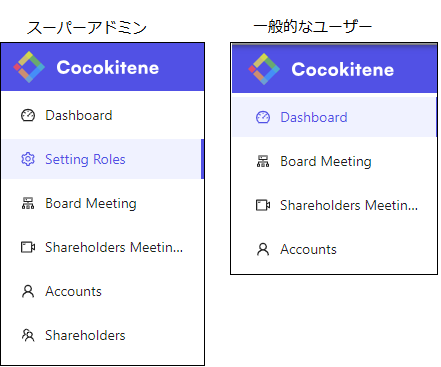
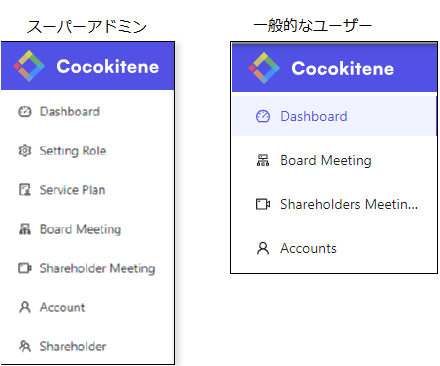
Update 10/22

diff --git a/docs/ja/service.md b/docs/ja/service.md
@@ -2,8 +2,6 @@
 Cocokiteneにおける、サービスの概要についてご説明します。  
 これはCocokiteneにおいて、ビジネスが自社のモデルやニーズに適したサービスプランに登録できるように、サービスプランを管理します。</br>
 
-<span class="red bold">※現時点、こちらはコントロールしません。</span>　　
-
 
 ## サービスプラン登録の流れ
 1. 企業は「ランディングページ」からサービス登録
